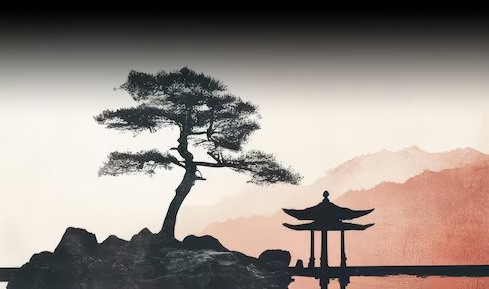
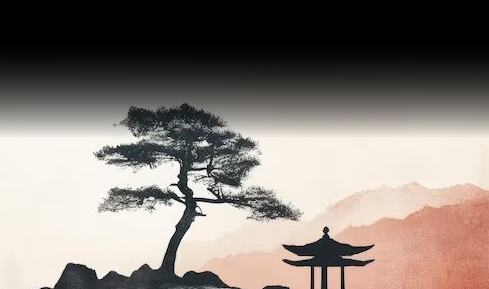
feat(ui): align zen landscape artwork lower to improve negative space and visual hierarchy

diff --git a/apps/extension/src/popup/views/UnlockView.tsx b/apps/extension/src/popup/views/UnlockView.tsx
@@ -104,7 +104,7 @@ export const UnlockView: React.FC = () => {
         <img
           src="/art/zen-landscape-blended.png"
           alt="Zen Japanese Landscape"
-          className="w-full h-36 object-cover object-bottom block opacity-85"
+          className="w-full h-32 object-cover object-bottom translate-y-2 block opacity-90"
         />
         {/* Subtle top fade to dissolve smoothly into pure black */}
         <div className="absolute inset-0 bg-gradient-to-t from-transparent via-transparent to-[#000000]" />

diff --git a/apps/extension/src/popup/views/OnboardingView.tsx b/apps/extension/src/popup/views/OnboardingView.tsx
@@ -107,7 +107,7 @@ export const OnboardingView: React.FC = () => {
             <img
               src="/art/zen-landscape-blended.png"
               alt="Zen Japanese Landscape"
-              className="w-full h-32 object-cover object-bottom block opacity-85"
+              className="w-full h-32 object-cover object-bottom translate-y-2 block opacity-90"
             />
             <div className="absolute inset-0 bg-gradient-to-t from-transparent via-transparent to-[#000000]" />
           </div>
